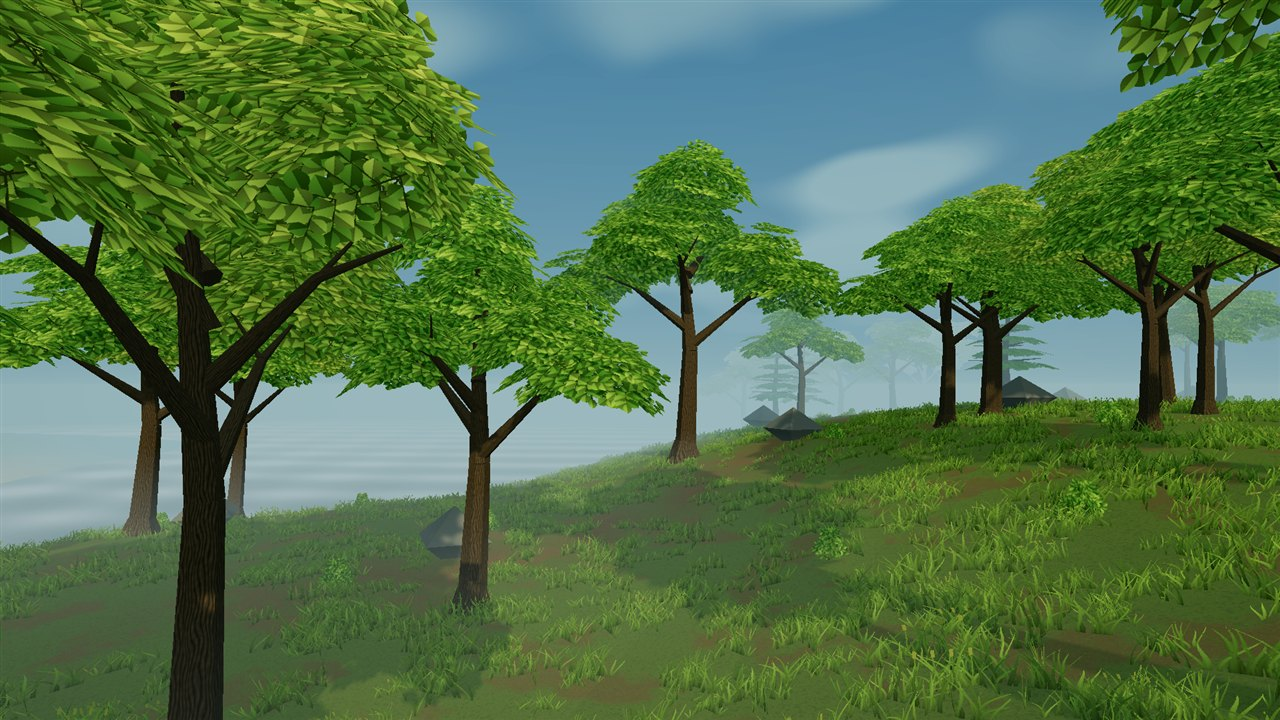
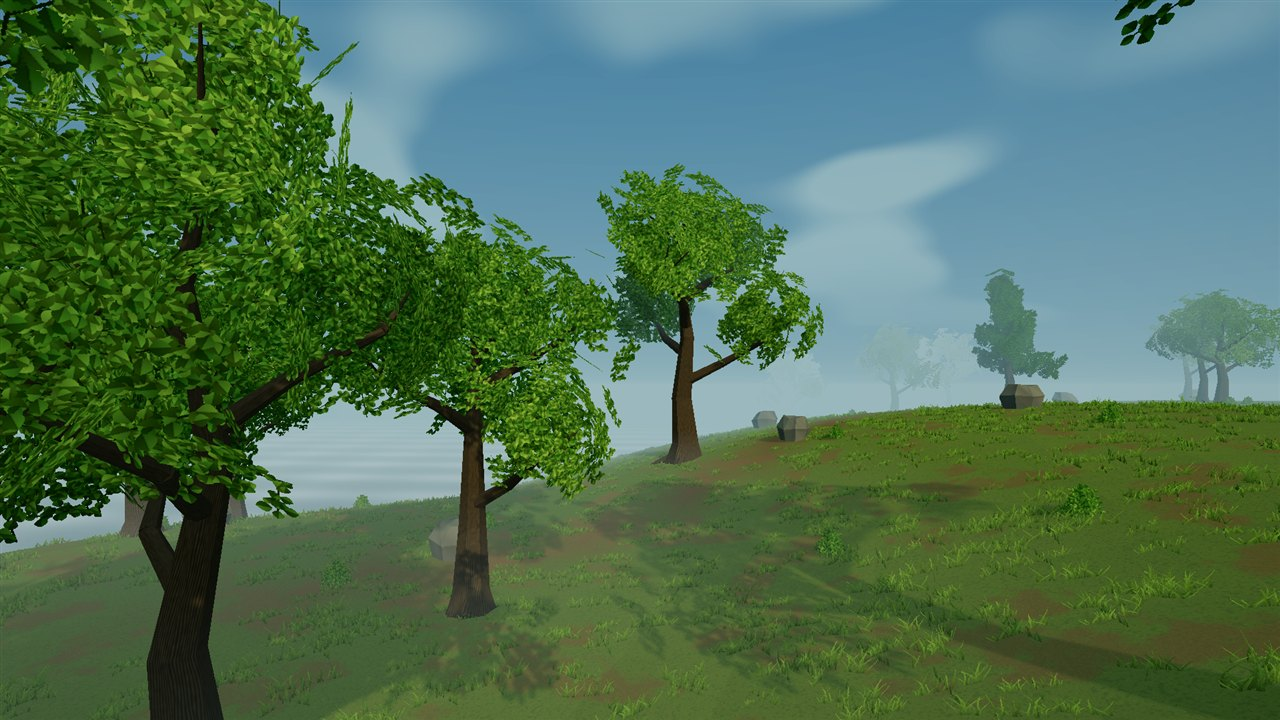
Publish forest study 03 with branch-led trees and finer cover

diff --git a/index.html b/index.html
@@ -1,16 +1,16 @@
 <!doctype html>
-<html lang="en"><head><meta charset="utf-8"><meta name="viewport" content="width=device-width, initial-scale=1"><meta name="theme-color" content="#101a15"><meta name="description" content="Ten in-engine forest, coast, and shelter screenshots from the Survival prototype."><title>Survival - Environment Gallery</title><link rel="stylesheet" href="style.css?v=2"></head>
-<body><header class="wrap masthead"><a class="brand" href="index.html">SURVIVAL <span>DEVELOPMENT GALLERY</span></a><span class="edition">ENVIRONMENT STUDY 02</span></header>
-<main class="wrap"><section class="intro"><p class="eyebrow">FOREST / COAST / SHELTER</p><h1>A world in different light.</h1><p class="lead">Ten fresh in-engine views: revised tree crowns, fuller ground cover, coastal water, and the first shelter lighting studies.</p><p class="hint">Choose a view. Tap its image for the full-resolution screenshot. The canopy page also includes the earlier build for comparison.</p></section>
-<section class="gallery" aria-label="Environment screenshots"><a class="card" href="clearing.html"><img src="images/clearing-thumb.jpg?v=2" width="640" height="360" alt="The ordinary player camera, with fuller grass and revised trees." fetchpriority="high"><div class="card-body"><span class="number">DAY / PLAYABLE VIEW</span><h2>Through the clearing</h2><p>The ordinary player camera, with fuller grass and revised trees.</p><span class="open">Open view <span aria-hidden="true">&#8599;</span></span></div></a>
-<a class="card" href="canopy.html"><img src="images/canopy-thumb.jpg?v=2" width="640" height="360" alt="Irregular crowns, finer leaf sprays, and stronger branch structure. Compare the earlier study below." loading="lazy"><div class="card-body"><span class="number">DAY / CANOPY COMPARISON</span><h2>Under the branches</h2><p>Irregular crowns, finer leaf sprays, and stronger branch structure. Compare the earlier study below.</p><span class="open">Open view <span aria-hidden="true">&#8599;</span></span></div></a>
-<a class="card" href="grass.html"><img src="images/grass-thumb.jpg?v=2" width="640" height="360" alt="Mixed grass heights, small pale flowers, and a shared ground palette." loading="lazy"><div class="card-body"><span class="number">DAY / GROUND DETAIL</span><h2>At meadow height</h2><p>Mixed grass heights, small pale flowers, and a shared ground palette.</p><span class="open">Open view <span aria-hidden="true">&#8599;</span></span></div></a>
-<a class="card" href="coast.html"><img src="images/coast-thumb.jpg?v=2" width="640" height="360" alt="The shoreline and a simple ripple-lighting water study. Water remains visual only." loading="lazy"><div class="card-body"><span class="number">DAY / COAST</span><h2>Where the meadow meets water</h2><p>The shoreline and a simple ripple-lighting water study. Water remains visual only.</p><span class="open">Open view <span aria-hidden="true">&#8599;</span></span></div></a>
-<a class="card" href="ridge.html"><img src="images/ridge-thumb.jpg?v=2" width="640" height="360" alt="A wide coastal panorama with mixed tree silhouettes and distant mist." loading="lazy"><div class="card-body"><span class="number">DAY / LANDSCAPE</span><h2>Across the forest edge</h2><p>A wide coastal panorama with mixed tree silhouettes and distant mist.</p><span class="open">Open view <span aria-hidden="true">&#8599;</span></span></div></a>
-<a class="card" href="dawn.html"><img src="images/dawn-thumb.jpg?v=2" width="640" height="360" alt="A curated dawn preset: low warm sunlight, cooler ambient light, and heavier mist." loading="lazy"><div class="card-body"><span class="number">DAWN / LIGHTING STUDY</span><h2>Cool morning mist</h2><p>A curated dawn preset: low warm sunlight, cooler ambient light, and heavier mist.</p><span class="open">Open view <span aria-hidden="true">&#8599;</span></span></div></a>
-<a class="card" href="golden.html"><img src="images/golden-thumb.jpg?v=2" width="640" height="360" alt="A warm low-sun preset for checking foliage volume and long shadows." loading="lazy"><div class="card-body"><span class="number">GOLDEN HOUR / LIGHTING STUDY</span><h2>Late light in the meadow</h2><p>A warm low-sun preset for checking foliage volume and long shadows.</p><span class="open">Open view <span aria-hidden="true">&#8599;</span></span></div></a>
-<a class="card" href="overcast.html"><img src="images/overcast-thumb.jpg?v=2" width="640" height="360" alt="A softer cool-light preset that exposes silhouettes and ground detail without strong sunlight." loading="lazy"><div class="card-body"><span class="number">OVERCAST / LIGHTING STUDY</span><h2>A quieter forest path</h2><p>A softer cool-light preset that exposes silhouettes and ground detail without strong sunlight.</p><span class="open">Open view <span aria-hidden="true">&#8599;</span></span></div></a>
-<a class="card" href="shelter.html"><img src="images/shelter-thumb.jpg?v=2" width="640" height="360" alt="A staged fixture built from the existing foundation, floor, wall, doorway, and flat-roof pieces." loading="lazy"><div class="card-body"><span class="number">DAY / CONSTRUCTION STUDY</span><h2>A shelter in the clearing</h2><p>A staged fixture built from the existing foundation, floor, wall, doorway, and flat-roof pieces.</p><span class="open">Open view <span aria-hidden="true">&#8599;</span></span></div></a>
-<a class="card" href="dusk.html"><img src="images/dusk-thumb.jpg?v=2" width="640" height="360" alt="The same prototype pieces at dusk with a capture-only ember and point-light fixture. Campfire gameplay is not implemented." loading="lazy"><div class="card-body"><span class="number">DUSK / LOCAL LIGHT STUDY</span><h2>Warmth beside the shelter</h2><p>The same prototype pieces at dusk with a capture-only ember and point-light fixture. Campfire gameplay is not implemented.</p><span class="open">Open view <span aria-hidden="true">&#8599;</span></span></div></a></section>
+<html lang="en"><head><meta charset="utf-8"><meta name="viewport" content="width=device-width, initial-scale=1"><meta name="theme-color" content="#101a15"><meta name="description" content="Ten in-engine forest, coast, and shelter screenshots from the Survival prototype."><title>Survival - Environment Gallery</title><link rel="stylesheet" href="style.css?v=3"></head>
+<body><header class="wrap masthead"><a class="brand" href="index.html">SURVIVAL <span>DEVELOPMENT GALLERY</span></a><span class="edition">ENVIRONMENT STUDY 03</span></header>
+<main class="wrap"><section class="intro"><p class="eyebrow">FOREST / COAST / SHELTER</p><h1>A world in different light.</h1><p class="lead">Ten fresh in-engine views: branch-led tree forms, irregular rocks, finer ground cover, and textured timber in varied light.</p><p class="hint">Choose a view. Tap its image for the full-resolution screenshot. The canopy page also includes the earlier build for comparison.</p></section>
+<section class="gallery" aria-label="Environment screenshots"><a class="card" href="clearing.html"><img src="images/clearing-thumb.jpg?v=3" width="640" height="360" alt="The ordinary player camera with branching tree families, finer grass, and irregular rocks." fetchpriority="high"><div class="card-body"><span class="number">DAY / PLAYABLE VIEW</span><h2>Through the clearing</h2><p>The ordinary player camera with branching tree families, finer grass, and irregular rocks.</p><span class="open">Open view <span aria-hidden="true">&#8599;</span></span></div></a>
+<a class="card" href="canopy.html"><img src="images/canopy-thumb.jpg?v=3" width="640" height="360" alt="Branch-led crowns and darker canopy interiors. Earlier captures below show the progression." loading="lazy"><div class="card-body"><span class="number">DAY / CANOPY COMPARISON</span><h2>Under the branches</h2><p>Branch-led crowns and darker canopy interiors. Earlier captures below show the progression.</p><span class="open">Open view <span aria-hidden="true">&#8599;</span></span></div></a>
+<a class="card" href="grass.html"><img src="images/grass-thumb.jpg?v=3" width="640" height="360" alt="Shorter fine grass with occasional taller accents, sparse flowers, and coherent ground patches." loading="lazy"><div class="card-body"><span class="number">DAY / GROUND DETAIL</span><h2>At meadow height</h2><p>Shorter fine grass with occasional taller accents, sparse flowers, and coherent ground patches.</p><span class="open">Open view <span aria-hidden="true">&#8599;</span></span></div></a>
+<a class="card" href="coast.html"><img src="images/coast-thumb.jpg?v=3" width="640" height="360" alt="The shoreline and a simple ripple-lighting water study. Water remains visual only." loading="lazy"><div class="card-body"><span class="number">DAY / COAST</span><h2>Where the meadow meets water</h2><p>The shoreline and a simple ripple-lighting water study. Water remains visual only.</p><span class="open">Open view <span aria-hidden="true">&#8599;</span></span></div></a>
+<a class="card" href="ridge.html"><img src="images/ridge-thumb.jpg?v=3" width="640" height="360" alt="A wide coastal panorama with mixed tree silhouettes and distant mist." loading="lazy"><div class="card-body"><span class="number">DAY / LANDSCAPE</span><h2>Across the forest edge</h2><p>A wide coastal panorama with mixed tree silhouettes and distant mist.</p><span class="open">Open view <span aria-hidden="true">&#8599;</span></span></div></a>
+<a class="card" href="dawn.html"><img src="images/dawn-thumb.jpg?v=3" width="640" height="360" alt="A curated dawn preset: low warm sunlight, cooler ambient light, and heavier mist." loading="lazy"><div class="card-body"><span class="number">DAWN / LIGHTING STUDY</span><h2>Cool morning mist</h2><p>A curated dawn preset: low warm sunlight, cooler ambient light, and heavier mist.</p><span class="open">Open view <span aria-hidden="true">&#8599;</span></span></div></a>
+<a class="card" href="golden.html"><img src="images/golden-thumb.jpg?v=3" width="640" height="360" alt="A warm low-sun preset for checking foliage volume and long shadows." loading="lazy"><div class="card-body"><span class="number">GOLDEN HOUR / LIGHTING STUDY</span><h2>Late light in the meadow</h2><p>A warm low-sun preset for checking foliage volume and long shadows.</p><span class="open">Open view <span aria-hidden="true">&#8599;</span></span></div></a>
+<a class="card" href="overcast.html"><img src="images/overcast-thumb.jpg?v=3" width="640" height="360" alt="A softer cool-light preset that exposes silhouettes and ground detail without strong sunlight." loading="lazy"><div class="card-body"><span class="number">OVERCAST / LIGHTING STUDY</span><h2>A quieter forest path</h2><p>A softer cool-light preset that exposes silhouettes and ground detail without strong sunlight.</p><span class="open">Open view <span aria-hidden="true">&#8599;</span></span></div></a>
+<a class="card" href="shelter.html"><img src="images/shelter-thumb.jpg?v=3" width="640" height="360" alt="A staged fixture built from the existing foundation, floor, wall, doorway, and flat-roof pieces." loading="lazy"><div class="card-body"><span class="number">DAY / CONSTRUCTION STUDY</span><h2>A shelter in the clearing</h2><p>A staged fixture built from the existing foundation, floor, wall, doorway, and flat-roof pieces.</p><span class="open">Open view <span aria-hidden="true">&#8599;</span></span></div></a>
+<a class="card" href="dusk.html"><img src="images/dusk-thumb.jpg?v=3" width="640" height="360" alt="The same prototype pieces at dusk with a capture-only ember and point-light fixture. Campfire gameplay is not implemented." loading="lazy"><div class="card-body"><span class="number">DUSK / LOCAL LIGHT STUDY</span><h2>Warmth beside the shelter</h2><p>The same prototype pieces at dusk with a capture-only ember and point-light fixture. Campfire gameplay is not implemented.</p><span class="open">Open view <span aria-hidden="true">&#8599;</span></span></div></a></section>
 <aside class="note"><strong>A work in progress.</strong> Original procedural assets, rendered in the game. Dawn, golden-hour, overcast, and dusk images use curated art presets; they do not demonstrate a day/night or weather cycle. Shelter scenes are staged from existing build pieces, and the dusk fire is a lighting fixture. This is a screenshot gallery, not a playable mobile game.</aside></main>
-<footer class="wrap footer">SURVIVAL <span>Environment study 02 - ten views</span></footer></body></html>
+<footer class="wrap footer">SURVIVAL <span>Environment study 03 - ten views</span></footer></body></html>

diff --git a/canopy.html b/canopy.html
@@ -1,7 +1,7 @@
 <!doctype html>
-<html lang="en"><head><meta charset="utf-8"><meta name="viewport" content="width=device-width, initial-scale=1"><meta name="theme-color" content="#101a15"><title>Under the branches - Survival Gallery</title><link rel="stylesheet" href="style.css?v=2"></head>
-<body><header class="wrap masthead"><a class="brand" href="index.html">SURVIVAL <span>DEVELOPMENT GALLERY</span></a><span class="edition">ENVIRONMENT STUDY 02</span></header>
-<main class="wrap"><section class="view-header"><a class="back" href="index.html">&#8592; All views</a><p class="eyebrow">DAY / CANOPY COMPARISON</p><h1>Under the branches</h1><p>Irregular crowns, finer leaf sprays, and stronger branch structure. Compare the earlier study below.</p></section>
-<figure class="image-frame"><a href="images/canopy-full.png?v=2"><img src="images/canopy.jpg?v=2" width="1280" height="720" alt="Irregular crowns, finer leaf sprays, and stronger branch structure. Compare the earlier study below." fetchpriority="high"></a><figcaption>Captured in Unity at 1920 &#215; 1080. Tap the image for the original PNG. Lighting variants are curated art presets, not a running day/night or weather system.</figcaption></figure><section class="view-header"><h2>Earlier procedural study</h2><p>The previous canopy capture uses the same camera position. This is an earlier build, not another current lighting preset.</p></section><figure class="image-frame"><a href="images/before-canopy-full.png"><img src="images/before-canopy.jpg" width="1280" height="720" alt="Earlier canopy study with repeated branch shapes and larger leaf patterns" loading="lazy"></a><figcaption>Earlier study. Tap for the original screenshot.</figcaption></figure>
+<html lang="en"><head><meta charset="utf-8"><meta name="viewport" content="width=device-width, initial-scale=1"><meta name="theme-color" content="#101a15"><title>Under the branches - Survival Gallery</title><link rel="stylesheet" href="style.css?v=3"></head>
+<body><header class="wrap masthead"><a class="brand" href="index.html">SURVIVAL <span>DEVELOPMENT GALLERY</span></a><span class="edition">ENVIRONMENT STUDY 03</span></header>
+<main class="wrap"><section class="view-header"><a class="back" href="index.html">&#8592; All views</a><p class="eyebrow">DAY / CANOPY COMPARISON</p><h1>Under the branches</h1><p>Branch-led crowns and darker canopy interiors. Earlier captures below show the progression.</p></section>
+<figure class="image-frame"><a href="images/canopy-full.png?v=3"><img src="images/canopy.jpg?v=3" width="1280" height="720" alt="Branch-led crowns and darker canopy interiors. Earlier captures below show the progression." fetchpriority="high"></a><figcaption>Captured in Unity at 1920 &#215; 1080. Tap the image for the original PNG. Lighting variants are curated art presets, not a running day/night or weather system.</figcaption></figure><section class="view-header"><h2>Forest study 02</h2><p>The same camera before this tree, rock, and ground-cover pass.</p></section><figure class="image-frame"><a href="images/study02-canopy-full.png"><img src="images/study02-canopy.jpg" width="1280" height="720" alt="Study 02 canopy capture before the branch-led tree family changes" loading="lazy"></a><figcaption>Study 02. Tap for the original screenshot.</figcaption></figure><section class="view-header"><h2>Original procedural study</h2><p>An earlier build using the same camera position, not another current lighting preset.</p></section><figure class="image-frame"><a href="images/before-canopy-full.png"><img src="images/before-canopy.jpg" width="1280" height="720" alt="Earlier canopy study with repeated branch shapes and larger leaf patterns" loading="lazy"></a><figcaption>Original study. Tap for the original screenshot.</figcaption></figure>
 <nav class="view-nav" aria-label="Screenshot navigation"><a href="clearing.html">&#8592; Through the clearing</a><a class="next" href="grass.html">At meadow height &#8594;</a></nav></main>
 <footer class="wrap footer">SURVIVAL <span>In-engine development captures</span></footer></body></html>

diff --git a/clearing.html b/clearing.html
@@ -1,7 +1,7 @@
 <!doctype html>
-<html lang="en"><head><meta charset="utf-8"><meta name="viewport" content="width=device-width, initial-scale=1"><meta name="theme-color" content="#101a15"><title>Through the clearing - Survival Gallery</title><link rel="stylesheet" href="style.css?v=2"></head>
-<body><header class="wrap masthead"><a class="brand" href="index.html">SURVIVAL <span>DEVELOPMENT GALLERY</span></a><span class="edition">ENVIRONMENT STUDY 02</span></header>
-<main class="wrap"><section class="view-header"><a class="back" href="index.html">&#8592; All views</a><p class="eyebrow">DAY / PLAYABLE VIEW</p><h1>Through the clearing</h1><p>The ordinary player camera, with fuller grass and revised trees.</p></section>
-<figure class="image-frame"><a href="images/clearing-full.png?v=2"><img src="images/clearing.jpg?v=2" width="1280" height="720" alt="The ordinary player camera, with fuller grass and revised trees." fetchpriority="high"></a><figcaption>Captured in Unity at 1920 &#215; 1080. Tap the image for the original PNG. Lighting variants are curated art presets, not a running day/night or weather system.</figcaption></figure>
+<html lang="en"><head><meta charset="utf-8"><meta name="viewport" content="width=device-width, initial-scale=1"><meta name="theme-color" content="#101a15"><title>Through the clearing - Survival Gallery</title><link rel="stylesheet" href="style.css?v=3"></head>
+<body><header class="wrap masthead"><a class="brand" href="index.html">SURVIVAL <span>DEVELOPMENT GALLERY</span></a><span class="edition">ENVIRONMENT STUDY 03</span></header>
+<main class="wrap"><section class="view-header"><a class="back" href="index.html">&#8592; All views</a><p class="eyebrow">DAY / PLAYABLE VIEW</p><h1>Through the clearing</h1><p>The ordinary player camera with branching tree families, finer grass, and irregular rocks.</p></section>
+<figure class="image-frame"><a href="images/clearing-full.png?v=3"><img src="images/clearing.jpg?v=3" width="1280" height="720" alt="The ordinary player camera with branching tree families, finer grass, and irregular rocks." fetchpriority="high"></a><figcaption>Captured in Unity at 1920 &#215; 1080. Tap the image for the original PNG. Lighting variants are curated art presets, not a running day/night or weather system.</figcaption></figure>
 <nav class="view-nav" aria-label="Screenshot navigation"><a href="dusk.html">&#8592; Warmth beside the shelter</a><a class="next" href="canopy.html">Under the branches &#8594;</a></nav></main>
 <footer class="wrap footer">SURVIVAL <span>In-engine development captures</span></footer></body></html>

diff --git a/grass.html b/grass.html
@@ -1,7 +1,7 @@
 <!doctype html>
-<html lang="en"><head><meta charset="utf-8"><meta name="viewport" content="width=device-width, initial-scale=1"><meta name="theme-color" content="#101a15"><title>At meadow height - Survival Gallery</title><link rel="stylesheet" href="style.css?v=2"></head>
-<body><header class="wrap masthead"><a class="brand" href="index.html">SURVIVAL <span>DEVELOPMENT GALLERY</span></a><span class="edition">ENVIRONMENT STUDY 02</span></header>
-<main class="wrap"><section class="view-header"><a class="back" href="index.html">&#8592; All views</a><p class="eyebrow">DAY / GROUND DETAIL</p><h1>At meadow height</h1><p>Mixed grass heights, small pale flowers, and a shared ground palette.</p></section>
-<figure class="image-frame"><a href="images/grass-full.png?v=2"><img src="images/grass.jpg?v=2" width="1280" height="720" alt="Mixed grass heights, small pale flowers, and a shared ground palette." fetchpriority="high"></a><figcaption>Captured in Unity at 1920 &#215; 1080. Tap the image for the original PNG. Lighting variants are curated art presets, not a running day/night or weather system.</figcaption></figure>
+<html lang="en"><head><meta charset="utf-8"><meta name="viewport" content="width=device-width, initial-scale=1"><meta name="theme-color" content="#101a15"><title>At meadow height - Survival Gallery</title><link rel="stylesheet" href="style.css?v=3"></head>
+<body><header class="wrap masthead"><a class="brand" href="index.html">SURVIVAL <span>DEVELOPMENT GALLERY</span></a><span class="edition">ENVIRONMENT STUDY 03</span></header>
+<main class="wrap"><section class="view-header"><a class="back" href="index.html">&#8592; All views</a><p class="eyebrow">DAY / GROUND DETAIL</p><h1>At meadow height</h1><p>Shorter fine grass with occasional taller accents, sparse flowers, and coherent ground patches.</p></section>
+<figure class="image-frame"><a href="images/grass-full.png?v=3"><img src="images/grass.jpg?v=3" width="1280" height="720" alt="Shorter fine grass with occasional taller accents, sparse flowers, and coherent ground patches." fetchpriority="high"></a><figcaption>Captured in Unity at 1920 &#215; 1080. Tap the image for the original PNG. Lighting variants are curated art presets, not a running day/night or weather system.</figcaption></figure>
 <nav class="view-nav" aria-label="Screenshot navigation"><a href="canopy.html">&#8592; Under the branches</a><a class="next" href="coast.html">Where the meadow meets water &#8594;</a></nav></main>
 <footer class="wrap footer">SURVIVAL <span>In-engine development captures</span></footer></body></html>

diff --git a/dusk.html b/dusk.html
@@ -1,7 +1,7 @@
 <!doctype html>
-<html lang="en"><head><meta charset="utf-8"><meta name="viewport" content="width=device-width, initial-scale=1"><meta name="theme-color" content="#101a15"><title>Warmth beside the shelter - Survival Gallery</title><link rel="stylesheet" href="style.css?v=2"></head>
-<body><header class="wrap masthead"><a class="brand" href="index.html">SURVIVAL <span>DEVELOPMENT GALLERY</span></a><span class="edition">ENVIRONMENT STUDY 02</span></header>
+<html lang="en"><head><meta charset="utf-8"><meta name="viewport" content="width=device-width, initial-scale=1"><meta name="theme-color" content="#101a15"><title>Warmth beside the shelter - Survival Gallery</title><link rel="stylesheet" href="style.css?v=3"></head>
+<body><header class="wrap masthead"><a class="brand" href="index.html">SURVIVAL <span>DEVELOPMENT GALLERY</span></a><span class="edition">ENVIRONMENT STUDY 03</span></header>
 <main class="wrap"><section class="view-header"><a class="back" href="index.html">&#8592; All views</a><p class="eyebrow">DUSK / LOCAL LIGHT STUDY</p><h1>Warmth beside the shelter</h1><p>The same prototype pieces at dusk with a capture-only ember and point-light fixture. Campfire gameplay is not implemented.</p></section>
-<figure class="image-frame"><a href="images/dusk-full.png?v=2"><img src="images/dusk.jpg?v=2" width="1280" height="720" alt="The same prototype pieces at dusk with a capture-only ember and point-light fixture. Campfire gameplay is not implemented." fetchpriority="high"></a><figcaption>Captured in Unity at 1920 &#215; 1080. Tap the image for the original PNG. Lighting variants are curated art presets, not a running day/night or weather system.</figcaption></figure>
+<figure class="image-frame"><a href="images/dusk-full.png?v=3"><img src="images/dusk.jpg?v=3" width="1280" height="720" alt="The same prototype pieces at dusk with a capture-only ember and point-light fixture. Campfire gameplay is not implemented." fetchpriority="high"></a><figcaption>Captured in Unity at 1920 &#215; 1080. Tap the image for the original PNG. Lighting variants are curated art presets, not a running day/night or weather system.</figcaption></figure>
 <nav class="view-nav" aria-label="Screenshot navigation"><a href="shelter.html">&#8592; A shelter in the clearing</a><a class="next" href="clearing.html">Through the clearing &#8594;</a></nav></main>
 <footer class="wrap footer">SURVIVAL <span>In-engine development captures</span></footer></body></html>

diff --git a/shelter.html b/shelter.html
@@ -1,7 +1,7 @@
 <!doctype html>
-<html lang="en"><head><meta charset="utf-8"><meta name="viewport" content="width=device-width, initial-scale=1"><meta name="theme-color" content="#101a15"><title>A shelter in the clearing - Survival Gallery</title><link rel="stylesheet" href="style.css?v=2"></head>
-<body><header class="wrap masthead"><a class="brand" href="index.html">SURVIVAL <span>DEVELOPMENT GALLERY</span></a><span class="edition">ENVIRONMENT STUDY 02</span></header>
+<html lang="en"><head><meta charset="utf-8"><meta name="viewport" content="width=device-width, initial-scale=1"><meta name="theme-color" content="#101a15"><title>A shelter in the clearing - Survival Gallery</title><link rel="stylesheet" href="style.css?v=3"></head>
+<body><header class="wrap masthead"><a class="brand" href="index.html">SURVIVAL <span>DEVELOPMENT GALLERY</span></a><span class="edition">ENVIRONMENT STUDY 03</span></header>
 <main class="wrap"><section class="view-header"><a class="back" href="index.html">&#8592; All views</a><p class="eyebrow">DAY / CONSTRUCTION STUDY</p><h1>A shelter in the clearing</h1><p>A staged fixture built from the existing foundation, floor, wall, doorway, and flat-roof pieces.</p></section>
-<figure class="image-frame"><a href="images/shelter-full.png?v=2"><img src="images/shelter.jpg?v=2" width="1280" height="720" alt="A staged fixture built from the existing foundation, floor, wall, doorway, and flat-roof pieces." fetchpriority="high"></a><figcaption>Captured in Unity at 1920 &#215; 1080. Tap the image for the original PNG. Lighting variants are curated art presets, not a running day/night or weather system.</figcaption></figure>
+<figure class="image-frame"><a href="images/shelter-full.png?v=3"><img src="images/shelter.jpg?v=3" width="1280" height="720" alt="A staged fixture built from the existing foundation, floor, wall, doorway, and flat-roof pieces." fetchpriority="high"></a><figcaption>Captured in Unity at 1920 &#215; 1080. Tap the image for the original PNG. Lighting variants are curated art presets, not a running day/night or weather system.</figcaption></figure>
 <nav class="view-nav" aria-label="Screenshot navigation"><a href="overcast.html">&#8592; A quieter forest path</a><a class="next" href="dusk.html">Warmth beside the shelter &#8594;</a></nav></main>
 <footer class="wrap footer">SURVIVAL <span>In-engine development captures</span></footer></body></html>

diff --git a/overcast.html b/overcast.html
@@ -1,7 +1,7 @@
 <!doctype html>
-<html lang="en"><head><meta charset="utf-8"><meta name="viewport" content="width=device-width, initial-scale=1"><meta name="theme-color" content="#101a15"><title>A quieter forest path - Survival Gallery</title><link rel="stylesheet" href="style.css?v=2"></head>
-<body><header class="wrap masthead"><a class="brand" href="index.html">SURVIVAL <span>DEVELOPMENT GALLERY</span></a><span class="edition">ENVIRONMENT STUDY 02</span></header>
+<html lang="en"><head><meta charset="utf-8"><meta name="viewport" content="width=device-width, initial-scale=1"><meta name="theme-color" content="#101a15"><title>A quieter forest path - Survival Gallery</title><link rel="stylesheet" href="style.css?v=3"></head>
+<body><header class="wrap masthead"><a class="brand" href="index.html">SURVIVAL <span>DEVELOPMENT GALLERY</span></a><span class="edition">ENVIRONMENT STUDY 03</span></header>
 <main class="wrap"><section class="view-header"><a class="back" href="index.html">&#8592; All views</a><p class="eyebrow">OVERCAST / LIGHTING STUDY</p><h1>A quieter forest path</h1><p>A softer cool-light preset that exposes silhouettes and ground detail without strong sunlight.</p></section>
-<figure class="image-frame"><a href="images/overcast-full.png?v=2"><img src="images/overcast.jpg?v=2" width="1280" height="720" alt="A softer cool-light preset that exposes silhouettes and ground detail without strong sunlight." fetchpriority="high"></a><figcaption>Captured in Unity at 1920 &#215; 1080. Tap the image for the original PNG. Lighting variants are curated art presets, not a running day/night or weather system.</figcaption></figure>
+<figure class="image-frame"><a href="images/overcast-full.png?v=3"><img src="images/overcast.jpg?v=3" width="1280" height="720" alt="A softer cool-light preset that exposes silhouettes and ground detail without strong sunlight." fetchpriority="high"></a><figcaption>Captured in Unity at 1920 &#215; 1080. Tap the image for the original PNG. Lighting variants are curated art presets, not a running day/night or weather system.</figcaption></figure>
 <nav class="view-nav" aria-label="Screenshot navigation"><a href="golden.html">&#8592; Late light in the meadow</a><a class="next" href="shelter.html">A shelter in the clearing &#8594;</a></nav></main>
 <footer class="wrap footer">SURVIVAL <span>In-engine development captures</span></footer></body></html>

diff --git a/coast.html b/coast.html
@@ -1,7 +1,7 @@
 <!doctype html>
-<html lang="en"><head><meta charset="utf-8"><meta name="viewport" content="width=device-width, initial-scale=1"><meta name="theme-color" content="#101a15"><title>Where the meadow meets water - Survival Gallery</title><link rel="stylesheet" href="style.css?v=2"></head>
-<body><header class="wrap masthead"><a class="brand" href="index.html">SURVIVAL <span>DEVELOPMENT GALLERY</span></a><span class="edition">ENVIRONMENT STUDY 02</span></header>
+<html lang="en"><head><meta charset="utf-8"><meta name="viewport" content="width=device-width, initial-scale=1"><meta name="theme-color" content="#101a15"><title>Where the meadow meets water - Survival Gallery</title><link rel="stylesheet" href="style.css?v=3"></head>
+<body><header class="wrap masthead"><a class="brand" href="index.html">SURVIVAL <span>DEVELOPMENT GALLERY</span></a><span class="edition">ENVIRONMENT STUDY 03</span></header>
 <main class="wrap"><section class="view-header"><a class="back" href="index.html">&#8592; All views</a><p class="eyebrow">DAY / COAST</p><h1>Where the meadow meets water</h1><p>The shoreline and a simple ripple-lighting water study. Water remains visual only.</p></section>
-<figure class="image-frame"><a href="images/coast-full.png?v=2"><img src="images/coast.jpg?v=2" width="1280" height="720" alt="The shoreline and a simple ripple-lighting water study. Water remains visual only." fetchpriority="high"></a><figcaption>Captured in Unity at 1920 &#215; 1080. Tap the image for the original PNG. Lighting variants are curated art presets, not a running day/night or weather system.</figcaption></figure>
+<figure class="image-frame"><a href="images/coast-full.png?v=3"><img src="images/coast.jpg?v=3" width="1280" height="720" alt="The shoreline and a simple ripple-lighting water study. Water remains visual only." fetchpriority="high"></a><figcaption>Captured in Unity at 1920 &#215; 1080. Tap the image for the original PNG. Lighting variants are curated art presets, not a running day/night or weather system.</figcaption></figure>
 <nav class="view-nav" aria-label="Screenshot navigation"><a href="grass.html">&#8592; At meadow height</a><a class="next" href="ridge.html">Across the forest edge &#8594;</a></nav></main>
 <footer class="wrap footer">SURVIVAL <span>In-engine development captures</span></footer></body></html>

diff --git a/dawn.html b/dawn.html
@@ -1,7 +1,7 @@
 <!doctype html>
-<html lang="en"><head><meta charset="utf-8"><meta name="viewport" content="width=device-width, initial-scale=1"><meta name="theme-color" content="#101a15"><title>Cool morning mist - Survival Gallery</title><link rel="stylesheet" href="style.css?v=2"></head>
-<body><header class="wrap masthead"><a class="brand" href="index.html">SURVIVAL <span>DEVELOPMENT GALLERY</span></a><span class="edition">ENVIRONMENT STUDY 02</span></header>
+<html lang="en"><head><meta charset="utf-8"><meta name="viewport" content="width=device-width, initial-scale=1"><meta name="theme-color" content="#101a15"><title>Cool morning mist - Survival Gallery</title><link rel="stylesheet" href="style.css?v=3"></head>
+<body><header class="wrap masthead"><a class="brand" href="index.html">SURVIVAL <span>DEVELOPMENT GALLERY</span></a><span class="edition">ENVIRONMENT STUDY 03</span></header>
 <main class="wrap"><section class="view-header"><a class="back" href="index.html">&#8592; All views</a><p class="eyebrow">DAWN / LIGHTING STUDY</p><h1>Cool morning mist</h1><p>A curated dawn preset: low warm sunlight, cooler ambient light, and heavier mist.</p></section>
-<figure class="image-frame"><a href="images/dawn-full.png?v=2"><img src="images/dawn.jpg?v=2" width="1280" height="720" alt="A curated dawn preset: low warm sunlight, cooler ambient light, and heavier mist." fetchpriority="high"></a><figcaption>Captured in Unity at 1920 &#215; 1080. Tap the image for the original PNG. Lighting variants are curated art presets, not a running day/night or weather system.</figcaption></figure>
+<figure class="image-frame"><a href="images/dawn-full.png?v=3"><img src="images/dawn.jpg?v=3" width="1280" height="720" alt="A curated dawn preset: low warm sunlight, cooler ambient light, and heavier mist." fetchpriority="high"></a><figcaption>Captured in Unity at 1920 &#215; 1080. Tap the image for the original PNG. Lighting variants are curated art presets, not a running day/night or weather system.</figcaption></figure>
 <nav class="view-nav" aria-label="Screenshot navigation"><a href="ridge.html">&#8592; Across the forest edge</a><a class="next" href="golden.html">Late light in the meadow &#8594;</a></nav></main>
 <footer class="wrap footer">SURVIVAL <span>In-engine development captures</span></footer></body></html>

diff --git a/golden.html b/golden.html
@@ -1,7 +1,7 @@
 <!doctype html>
-<html lang="en"><head><meta charset="utf-8"><meta name="viewport" content="width=device-width, initial-scale=1"><meta name="theme-color" content="#101a15"><title>Late light in the meadow - Survival Gallery</title><link rel="stylesheet" href="style.css?v=2"></head>
-<body><header class="wrap masthead"><a class="brand" href="index.html">SURVIVAL <span>DEVELOPMENT GALLERY</span></a><span class="edition">ENVIRONMENT STUDY 02</span></header>
+<html lang="en"><head><meta charset="utf-8"><meta name="viewport" content="width=device-width, initial-scale=1"><meta name="theme-color" content="#101a15"><title>Late light in the meadow - Survival Gallery</title><link rel="stylesheet" href="style.css?v=3"></head>
+<body><header class="wrap masthead"><a class="brand" href="index.html">SURVIVAL <span>DEVELOPMENT GALLERY</span></a><span class="edition">ENVIRONMENT STUDY 03</span></header>
 <main class="wrap"><section class="view-header"><a class="back" href="index.html">&#8592; All views</a><p class="eyebrow">GOLDEN HOUR / LIGHTING STUDY</p><h1>Late light in the meadow</h1><p>A warm low-sun preset for checking foliage volume and long shadows.</p></section>
-<figure class="image-frame"><a href="images/golden-full.png?v=2"><img src="images/golden.jpg?v=2" width="1280" height="720" alt="A warm low-sun preset for checking foliage volume and long shadows." fetchpriority="high"></a><figcaption>Captured in Unity at 1920 &#215; 1080. Tap the image for the original PNG. Lighting variants are curated art presets, not a running day/night or weather system.</figcaption></figure>
+<figure class="image-frame"><a href="images/golden-full.png?v=3"><img src="images/golden.jpg?v=3" width="1280" height="720" alt="A warm low-sun preset for checking foliage volume and long shadows." fetchpriority="high"></a><figcaption>Captured in Unity at 1920 &#215; 1080. Tap the image for the original PNG. Lighting variants are curated art presets, not a running day/night or weather system.</figcaption></figure>
 <nav class="view-nav" aria-label="Screenshot navigation"><a href="dawn.html">&#8592; Cool morning mist</a><a class="next" href="overcast.html">A quieter forest path &#8594;</a></nav></main>
 <footer class="wrap footer">SURVIVAL <span>In-engine development captures</span></footer></body></html>

diff --git a/ridge.html b/ridge.html
@@ -1,7 +1,7 @@
 <!doctype html>
-<html lang="en"><head><meta charset="utf-8"><meta name="viewport" content="width=device-width, initial-scale=1"><meta name="theme-color" content="#101a15"><title>Across the forest edge - Survival Gallery</title><link rel="stylesheet" href="style.css?v=2"></head>
-<body><header class="wrap masthead"><a class="brand" href="index.html">SURVIVAL <span>DEVELOPMENT GALLERY</span></a><span class="edition">ENVIRONMENT STUDY 02</span></header>
+<html lang="en"><head><meta charset="utf-8"><meta name="viewport" content="width=device-width, initial-scale=1"><meta name="theme-color" content="#101a15"><title>Across the forest edge - Survival Gallery</title><link rel="stylesheet" href="style.css?v=3"></head>
+<body><header class="wrap masthead"><a class="brand" href="index.html">SURVIVAL <span>DEVELOPMENT GALLERY</span></a><span class="edition">ENVIRONMENT STUDY 03</span></header>
 <main class="wrap"><section class="view-header"><a class="back" href="index.html">&#8592; All views</a><p class="eyebrow">DAY / LANDSCAPE</p><h1>Across the forest edge</h1><p>A wide coastal panorama with mixed tree silhouettes and distant mist.</p></section>
-<figure class="image-frame"><a href="images/ridge-full.png?v=2"><img src="images/ridge.jpg?v=2" width="1280" height="720" alt="A wide coastal panorama with mixed tree silhouettes and distant mist." fetchpriority="high"></a><figcaption>Captured in Unity at 1920 &#215; 1080. Tap the image for the original PNG. Lighting variants are curated art presets, not a running day/night or weather system.</figcaption></figure>
+<figure class="image-frame"><a href="images/ridge-full.png?v=3"><img src="images/ridge.jpg?v=3" width="1280" height="720" alt="A wide coastal panorama with mixed tree silhouettes and distant mist." fetchpriority="high"></a><figcaption>Captured in Unity at 1920 &#215; 1080. Tap the image for the original PNG. Lighting variants are curated art presets, not a running day/night or weather system.</figcaption></figure>
 <nav class="view-nav" aria-label="Screenshot navigation"><a href="coast.html">&#8592; Where the meadow meets water</a><a class="next" href="dawn.html">Cool morning mist &#8594;</a></nav></main>
 <footer class="wrap footer">SURVIVAL <span>In-engine development captures</span></footer></body></html>
